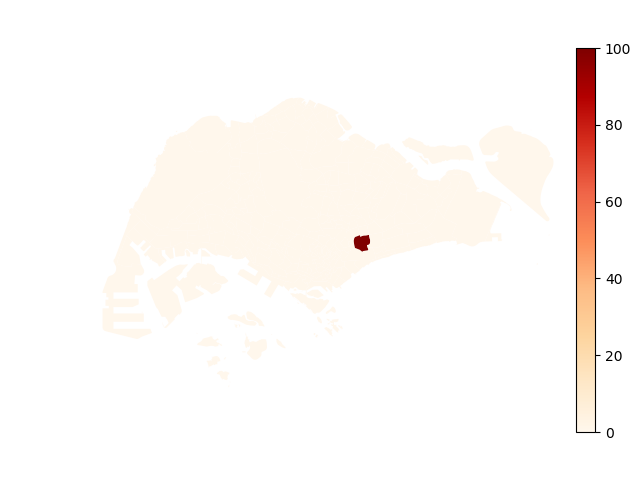
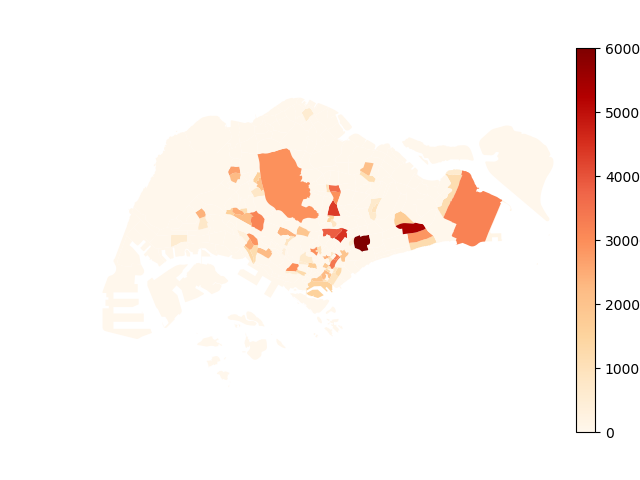
dfdfs

diff --git a/dataspark/flask_website/backend/createheatmap.py b/dataspark/flask_website/backend/createheatmap.py
@@ -17,8 +17,9 @@ def create_heat_map(subzoneheat):
     # add in the number of visitors to the subzone
     geodf["Visitors"] = geodf["SUBZONE_C"]
     geodf["Visitors"].replace(to_replace=subzoneheat, inplace=True)
+    geodf["Visitors"] = geodf["Visitors"].apply(lambda x: x if isinstance(x, int) else 0)
 
-    vmin, vmax = geodf['Visitors'].min(), geodf['Visitors'].max()
+    vmin, vmax = 0, geodf['Visitors'].max()
     ax = geodf.plot(column='Visitors', cmap='OrRd', vmin=vmin, vmax=vmax)
     plt.axis('off')
     fig = ax.get_figure()
@@ -29,4 +30,5 @@ def create_heat_map(subzoneheat):
     plt.savefig(os.path.dirname(__file__) + '/../static/heatmap.png')
     geodf.head()
 
-# create_heat_map({'GLSZ04':1000})
+
+create_heat_map({"GLSZ04":100})

diff --git a/dataspark/flask_website/backend/DiscreteVisit.py b/dataspark/flask_website/backend/DiscreteVisit.py
@@ -80,5 +80,5 @@ def createTopList(ranked):
     #print("RETURN LIST:", list)
     return list
 
-# dicttemp = {"gender": "M", "age": "NA", "race": "CHINESE", "nationality": "SGP"}
-# discreteVisit(dicttemp)
+dicttemp = {"gender": "M", "age": "NA", "race": "NA", "nationality": "SGP"}
+discreteVisit(dicttemp)
